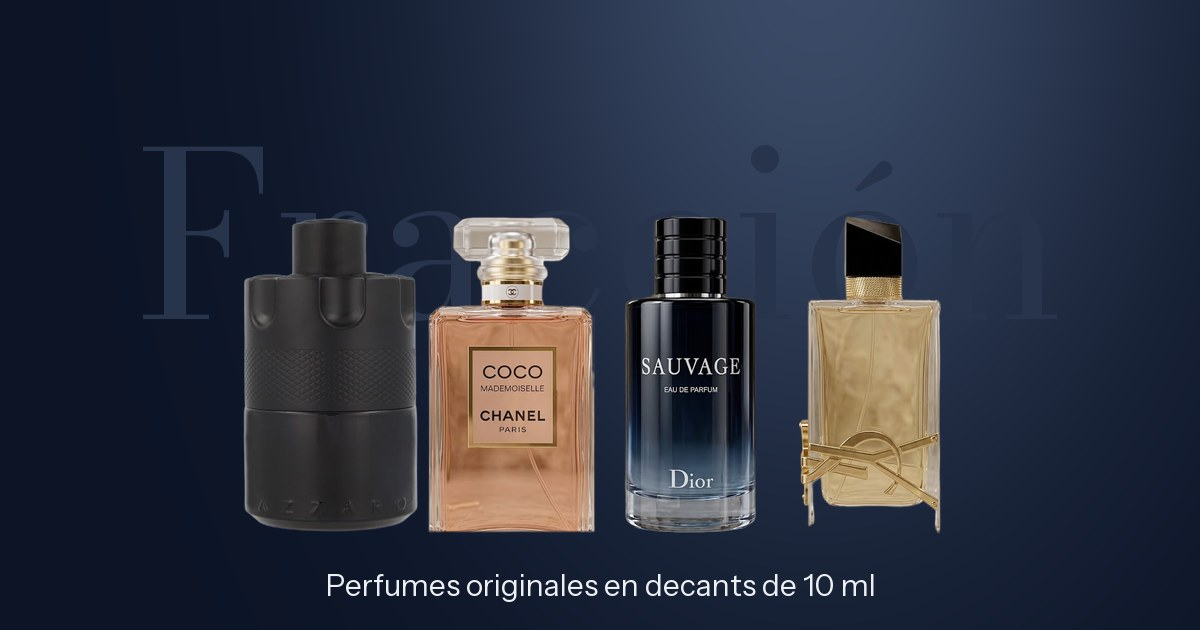
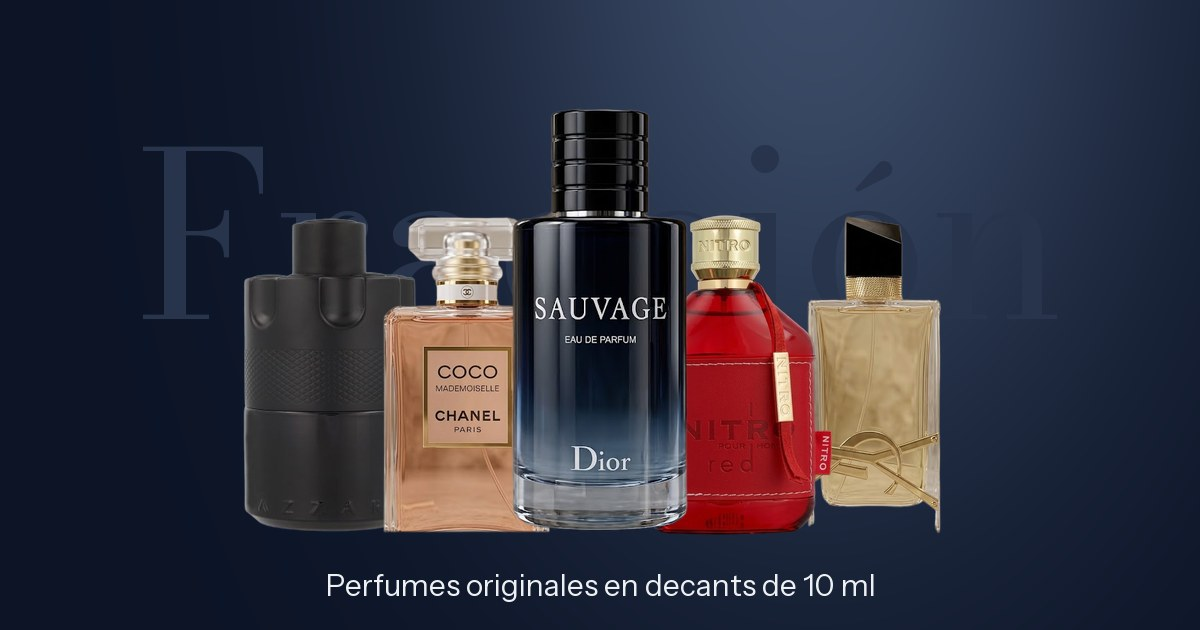
Nuevo perfume: Nitro Red de Dumont
- Notas verificadas con Dumont Paris (oficial) y Fragrantica; EDP según minoristas; lanzamiento 2020
- Sin perfumista publicado por la marca: la página muestra 'Lanzado en 2020'
- Atmósfera carmesí; recorte limpio de frasco y decant
- /nuevo-perfume publica con git push

Changed region(s): [[0.3083, 0.1508, 0.7092, 0.8746]]

diff --git a/data/products.ts b/data/products.ts
@@ -162,6 +162,41 @@ const entries: CatalogEntry[] = [
     atmosphere: { base: "#1c0f0b", glow: "#e0874a" },
     profile: { moment: "noche", character: ["calido", "especiado"] },
   },
+  {
+    slug: "dumont-nitro-red-edp",
+    name: "Nitro Red",
+    brand: "Dumont",
+    // ─── Lo que puedes cambiar ───
+    price: 100,
+    available: true,
+    featured: true,
+    // ─────────────────────────────
+    concentration: "EDP",
+    family: "aromatico",
+    gender: "masculino",
+    tagline: "Manzana, lavanda y bergamota sobre un fondo de sándalo y ámbar.",
+    description:
+      "Dumont lo presenta como una mezcla de sándalo, bergamota y ámbar tan intensa como el rojo de su frasco. Abre fresco con manzana, lavanda y bergamota, pasa a un corazón de sandía, cedro y cálamo, y termina en un fondo cálido de ámbar, sándalo y pachulí. Se clasifica como aromático afrutado.",
+    highlightNotes: ["Bergamota", "Sándalo", "Ámbar"],
+    year: 2020,
+    sources: [
+      { label: "Dumont Paris: Nitro Red", url: "https://www.dumontparis.com/product/nitro-red/" },
+      { label: "Fragrantica: Nitro Red", url: "https://www.fragrantica.com/perfume/Dumont/Nitro-Red-73023.html" },
+      { label: "Cosmetics Now: Nitro Red Eau de Parfum", url: "https://www.cosmeticsnow.com/iteminfo/dumont-paris-dumont-nitro-red-eau-de-parfum-spray-100ml" },
+    ],
+    notes: {
+      top: ["Manzana", "Lavanda", "Bergamota"],
+      heart: ["Sandía", "Cedro", "Cálamo"],
+      base: ["Ámbar", "Sándalo", "Pachulí"],
+    },
+    images: {
+      bottle: "/products/dumont-nitro-red-edp/bottle.webp",
+      decant: "/products/dumont-nitro-red-edp/decant.webp",
+      scene: "/products/dumont-nitro-red-edp/scene.webp",
+    },
+    atmosphere: { base: "#2a0c10", glow: "#e2474f" },
+    profile: { moment: "siempre", character: ["fresco", "calido"] },
+  },
 ];
 
 export const products: Product[] = entries.map(({ price, presentations, ...rest }) => ({

diff --git a/app/producto/[slug]/page.tsx b/app/producto/[slug]/page.tsx
@@ -93,11 +93,13 @@ export default async function ProductPage(props: PageProps<"/producto/[slug]">) 
               {concentrationLabels[product.concentration]}, {familyLabels[product.family].toLowerCase()},{" "}
               {genderLabels[product.gender].toLowerCase()}
             </p>
-            {product.perfumer && (
+            {product.perfumer ? (
               <p className="mt-1 text-sm text-text-muted">
                 Creado por <span translate="no">{product.perfumer}</span>
                 {product.year ? ` en ${product.year}` : ""}.
               </p>
+            ) : (
+              product.year && <p className="mt-1 text-sm text-text-muted">Lanzado en {product.year}.</p>
             )}
             <p className="mt-6 max-w-[40ch] font-display text-2xl leading-snug text-text/90">{product.tagline}</p>
 

diff --git a/.claude/skills/nuevo-perfume/SKILL.md b/.claude/skills/nuevo-perfume/SKILL.md
@@ -171,11 +171,12 @@ forma (orden de campos igual a los demás):
 
 ## 7. Guardar y avisar
 
-1. Haz commit con un mensaje como `Nuevo perfume: <Nombre> de <Marca>`.
+1. Haz commit con un mensaje como `Nuevo perfume: <Nombre> de <Marca>` y
+   súbelo con `git push` (repositorio `diegopda11/Perfumes`).
 2. Responde al dueño en español sencillo:
    - qué se agregó y dónde aparece;
    - los datos clave (notas, perfumista, año) y la lista de fuentes con enlaces;
    - lo que quedó provisional (precio) o cualquier problema de la foto;
-   - cómo publicarlo: el dueño sube el sitio a mano, así que debe correr
-     `npm run publicar` (construye y abre la carpeta `out`) y arrastrar esa
-     carpeta a Netlify (Deploys → zona de arrastre).
+   - cómo se publica: si Netlify está conectado al repositorio, el `git push`
+     lo publica solo en 1-2 minutos. Si todavía no lo está, el dueño corre
+     `npm run publicar` y arrastra la carpeta `out` a Netlify (Deploys).
